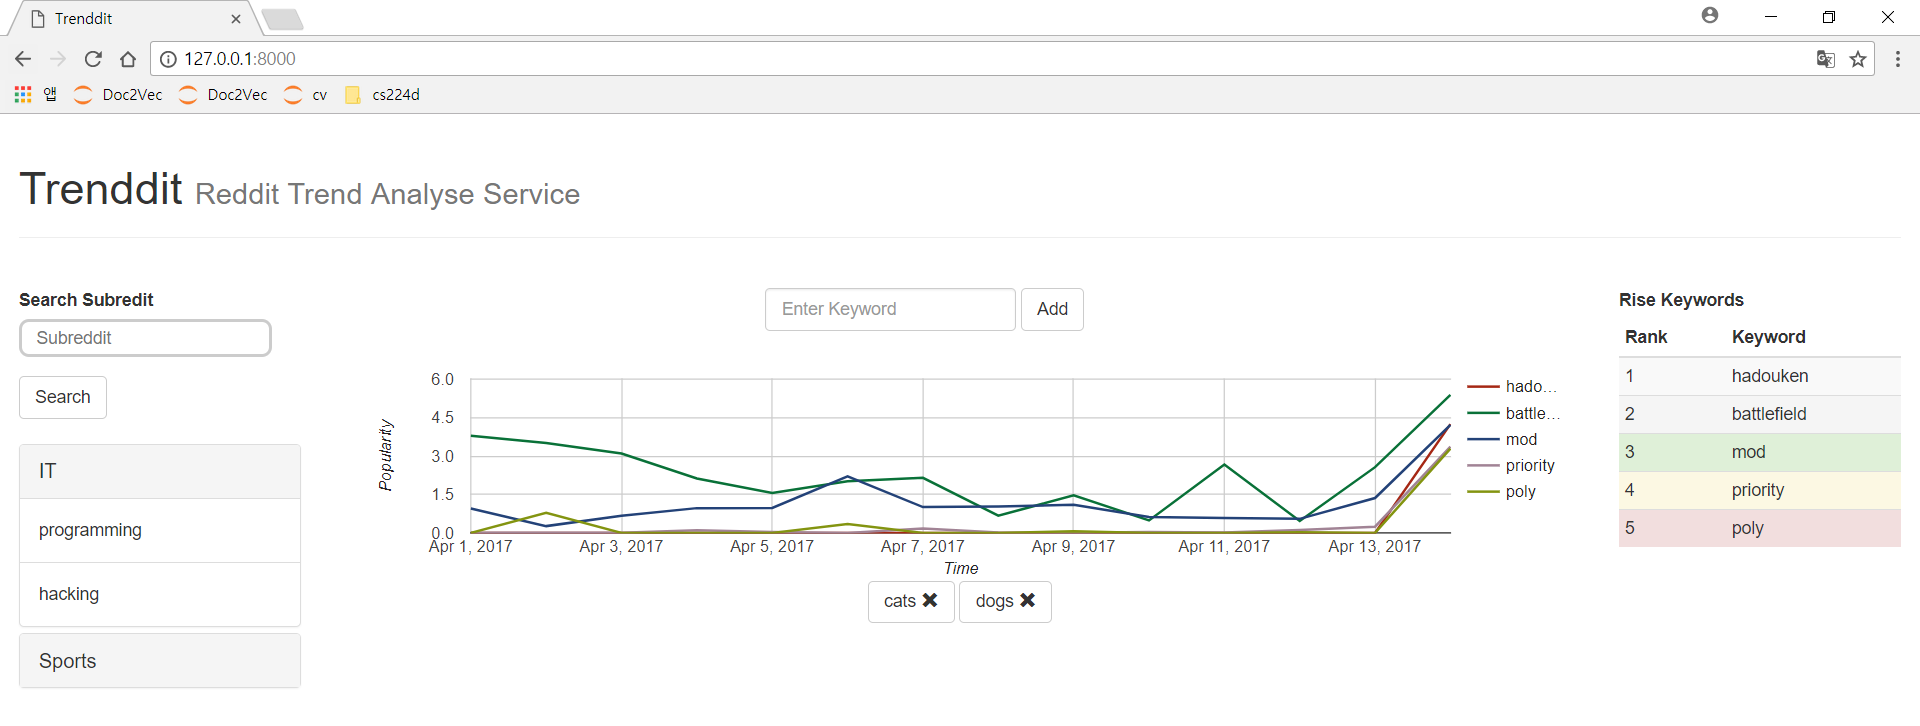
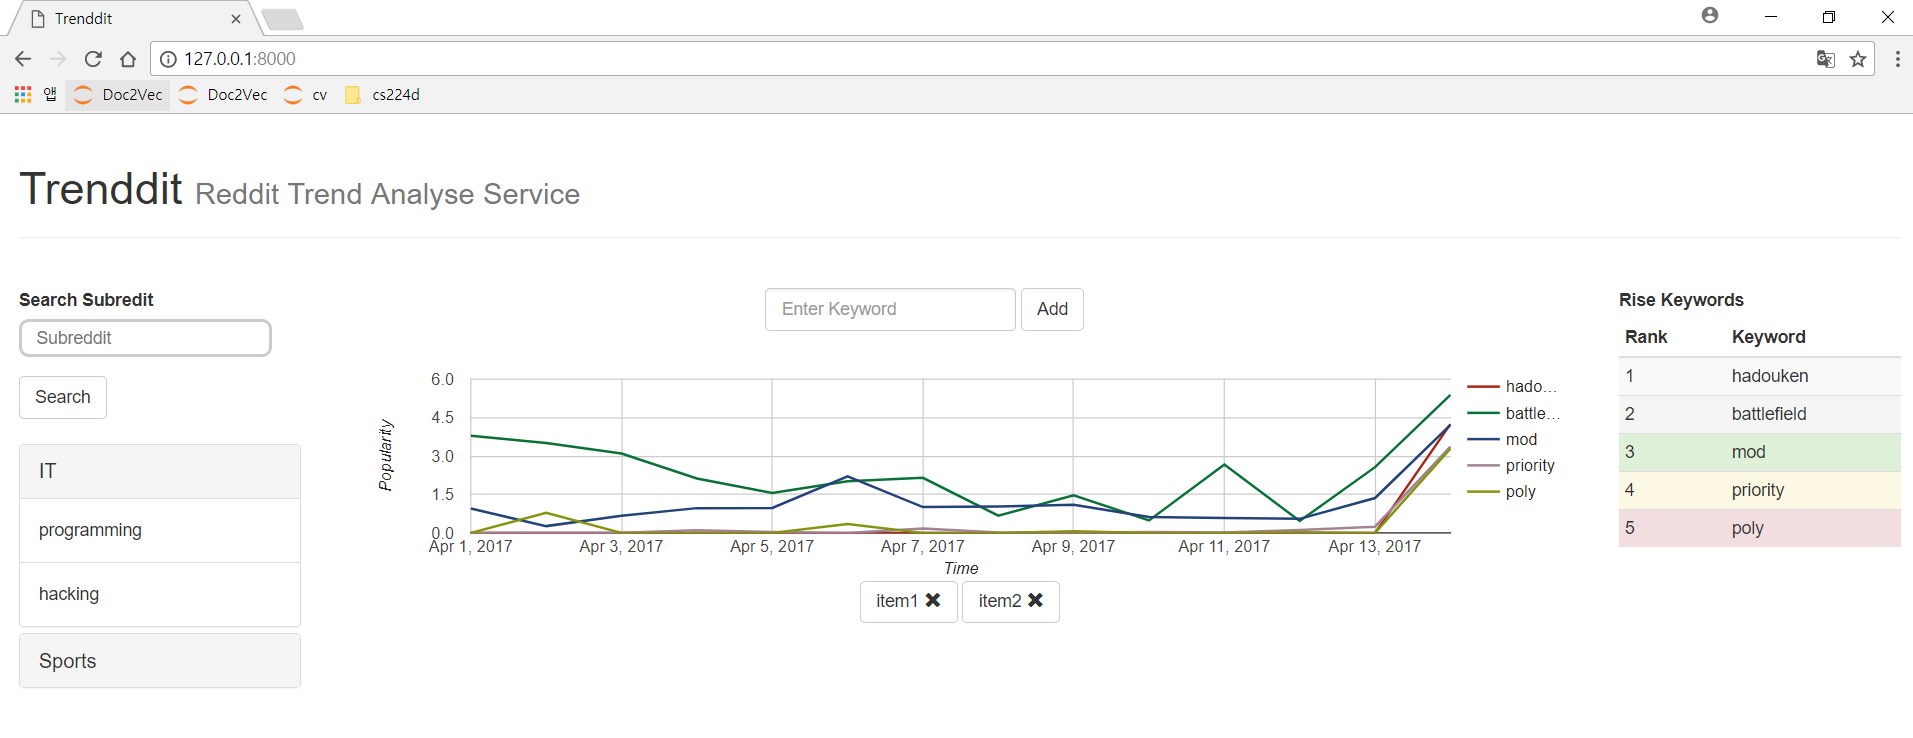
스크린샷

diff --git a/trenddit_web/main/templates/main/index.html b/trenddit_web/main/templates/main/index.html
@@ -1,7 +1,7 @@
 <!DOCTYPE html>
 <html lang="en">
 {% load static %}
-<head>
+<head>ㅁ
     <meta charset="utf-8">
     <meta http-equiv="X-UA-Compatible" content="IE=edge">
     <meta name="viewport" content="width=device-width, initial-scale=1">
@@ -94,11 +94,11 @@
                 <div class="col-md-5 col-centered">
                     <center>
                         <button type="submit" class="btn btn-default">
-                            cats
+                            item1
                             <span class="glyphicon glyphicon-remove"/>
                         </button>
                         <button type="submit" class="btn btn-default">
-                            dogs
+                            item2
                             <span class="glyphicon glyphicon-remove"/>
                         </button>
                     </center>
